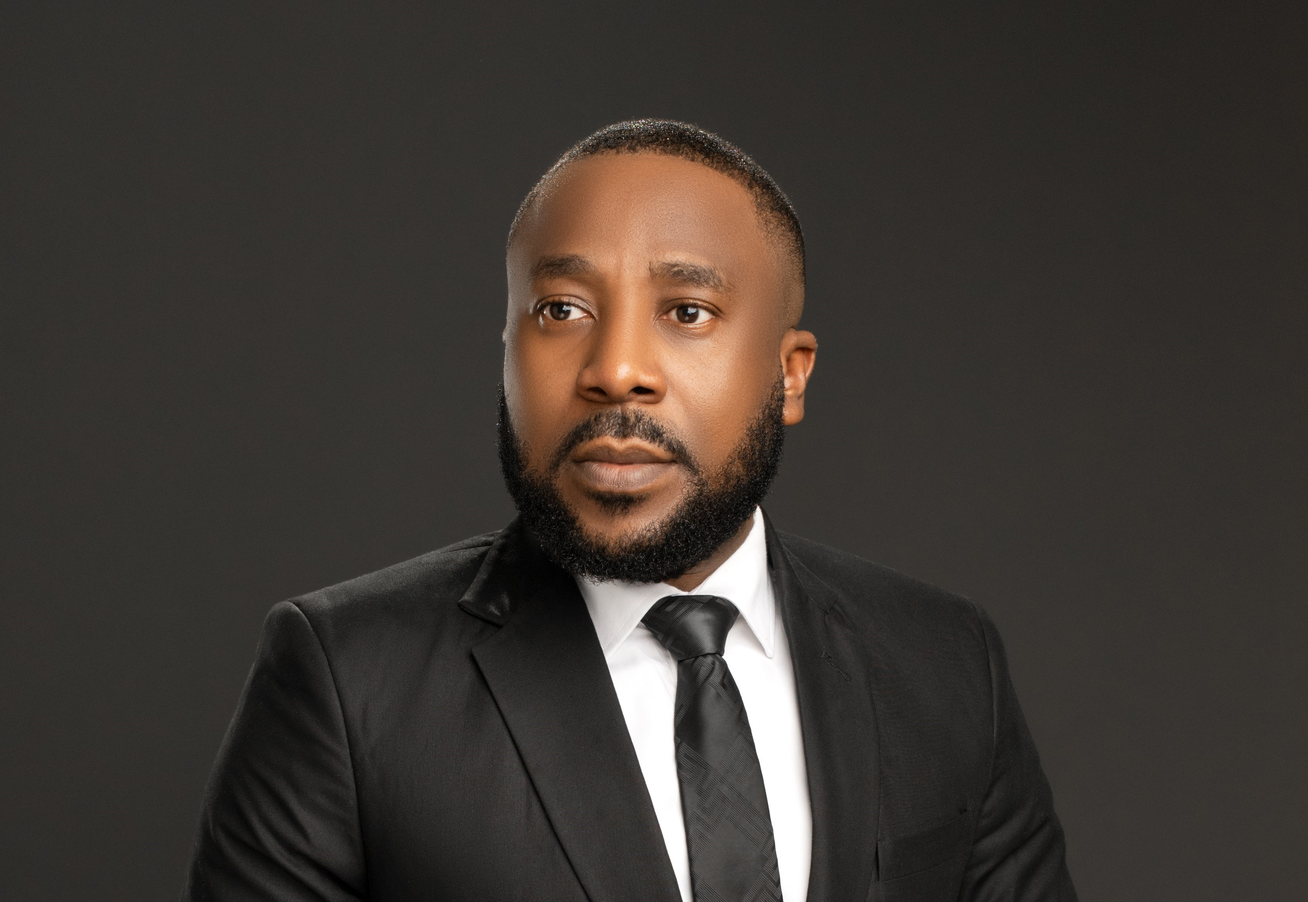
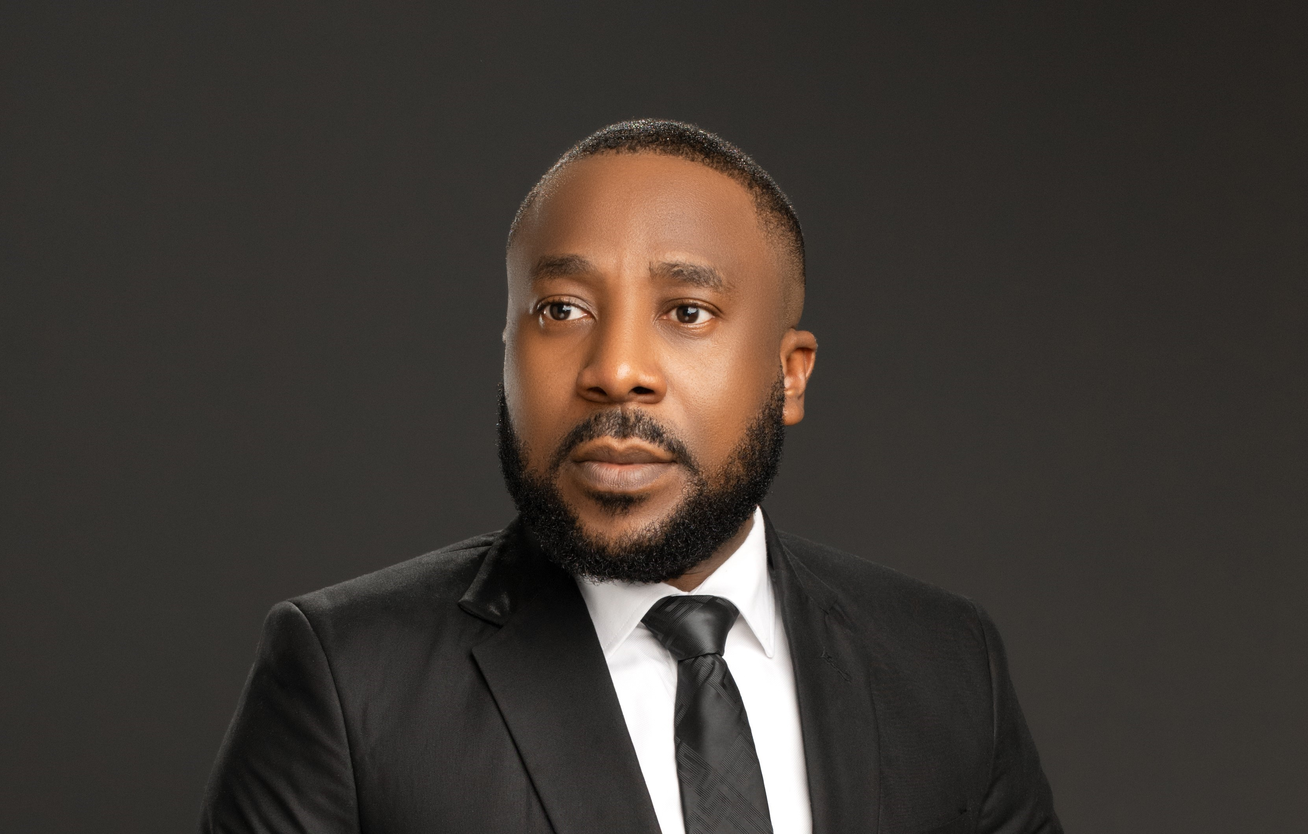
fix: fixed hero images and added relevant images

diff --git a/css/style.css b/css/style.css
@@ -292,7 +292,6 @@ nav a:hover::after {
 
 /* Hero Section */
 .hero {
-    /* height: 100vh; */
     height: auto;
     min-height: 100vh;
     display: flex;
@@ -301,13 +300,15 @@ nav a:hover::after {
     overflow: hidden;
     padding-top: 80px;
     background: linear-gradient(rgba(5, 8, 7, 0.4), rgba(5, 8, 7, 0.6)), url('../images/halfprofile.jpg') center/cover;
+    background-attachment: fixed;
 }
 
 .hero-content {
     max-width: 800px;
     position: relative;
     z-index: 2;
-    padding: 40px 0
+    padding: 40px 0;
+    margin-top: 15rem;
 }
 
 .hero-subtitle {
@@ -324,7 +325,6 @@ nav a:hover::after {
 
 .typewriter h1 {
     font-size: 4rem;
-    margin-top: 15rem;
     margin-bottom: 1rem;
     color: var(--white);
     min-height: 100px;
@@ -376,65 +376,63 @@ nav a:hover::after {
     font-size: 1em;
 }
 
-/* About CEO Section */
+/* About Section */
 .about-ceo {
     padding: 6rem 0;
     background: var(--dark-grey);
-    position: relative;
     overflow: hidden;
 }
 
 .about-container {
     display: flex;
     flex-direction: column;
-    align-items: flex-start;
+    align-items: center;
     gap: 2rem;
     opacity: 0;
     transform: translateY(50px);
     transition: all 0.8s ease;
-    max-width: 700px;
-    margin: 0 auto;
 }
 
-/* .ceo-header {
-    display: flex;
-    align-items: center;
-    gap: 1.5rem;
+.ceo-content h2 {
+    font-size: 2.8rem;
     margin-bottom: 1.5rem;
-} */
+    color: var(--brown-dark);
+    text-align: center;
+}
+
+.ceo-content h3 {
+    font-family: var(--font-subheading);
+    font-size: 1.2rem;
+    color: var(--emerald-light);
+    margin-bottom: 2rem;
+    font-weight: 400;
+    text-align: center;
+}
 
 .ceo-image {
-    width: 90px;
-    height: 90px;
-    border-radius: 50%;
+    position: relative;
+    border-radius: 5px;
     overflow: hidden;
-    box-shadow: 0 8px 24px rgba(0,0,0,0.3);
+    box-shadow: 0 20px 40px rgba(0,0,0,0.4);
+    width: 50px; /* Set a fixed width */
+    height: 50px;
     background: linear-gradient(45deg, var(--emerald-dark), var(--black));
-    flex-shrink: 0;
     display: flex;
     align-items: center;
     justify-content: center;
+    margin-right: 1rem;
+    float: left; /* Float the image to the left */
+
 }
 
 .ceo-image img {
     width: 100%;
     height: 100%;
     object-fit: cover;
-    display: block;
-}
-
-.ceo-header-content h2 {
-    font-size: 2.2rem;
-    margin-bottom: 0.3rem;
-    color: var(--brown-dark);
-}
-
-.ceo-header-content h3 {
-    font-family: var(--font-subheading);
-    font-size: 1.1rem;
-    color: var(--emerald-light);
-    font-weight: 400;
-    margin-bottom: 0;
+    display: flex;
+    align-items: center;
+    justify-content: center;
+    flex-wrap: wrap;
 }
 
 .ceo-content p {
@@ -442,52 +440,16 @@ nav a:hover::after {
     font-size: 1.1rem;
     line-height: 1.8;
     color: var(--brown-light);
+    text-align: justify;
 }
 
-/* Responsive adjustments */
-@media (max-width: 576px) {
-    .about-container {
-        padding: 0 1rem;
-    }
-    .ceo-header {
-        gap: 1rem;
-    }
-    .ceo-image {
-        width: 60px;
-        height: 60px;
-    }
-    .ceo-header-content h2 {
-        font-size: 1.3rem;
-    }
-    .ceo-header-content h3 {
-        font-size: 0.9rem;
-    }
-    .ceo-content p {
-        font-size: 0.95rem;
-    }
+.ceo-content a {
+    display: block;
+    margin-left: auto;
+    margin-right: auto;
+    max-width: 200px;
+    text-align: center;
 }
-
-/* .ceo-signature {
-    display: flex;
-    flex-direction: column;
-    margin-top: 2rem;
-    margin-bottom: 1rem;
-} */
-
-/* .signature {
-    font-family: var(--font-heading);
-    font-size: 2.5rem;
-    color: var(--brown-dark);
-    margin-bottom: 0.5rem;
-}
-
-.signature-title {
-    font-family: var(--font-subheading);
-    color: var(--emerald-light);
-    font-size: 0.9rem;
-    letter-spacing: 2px;
-    text-transform: uppercase;
-} */
 
 /* Experience Section */
 .experience {
@@ -1108,15 +1070,6 @@ footer {
     .typewriter h1 {
         font-size: 3rem;
     }
-    
-    .about-container {
-        grid-template-columns: 1fr;
-        gap: 3rem;
-    }
-    
-    .ceo-image {
-        height: 400px;
-    }
 
     nav ul {
         gap: 1rem;
@@ -1240,7 +1193,13 @@ footer {
 @media (max-width: 576px) {
     .hero {
         background: linear-gradient(rgba(5, 8, 7, 0.4), rgba(5, 8, 7, 0.6)), url('../images/fullprofile.jpg') center/cover;
+        background-attachment: fixed;
     }
+
+    .hero-content {
+        margin-top: 25rem;
+    }
+
     .typewriter h1 {
         font-size: 1.8rem;
     }
@@ -1253,9 +1212,6 @@ footer {
         font-size: 2.5rem;
     }
     
-    .ceo-image {
-        height: 300px;
-    }
     /* Mobile-specific adjustments */
     .logo-icon {
         width: 35px;
@@ -1283,10 +1239,6 @@ footer {
     
     .logo-main {
         font-size: 1.2rem;
-    }
-
-    .typewriter h1 {
-        margin-top: 30rem;
     }
 
     .logo-tagline {
@@ -1331,14 +1283,14 @@ footer {
 
 /* Page Hero Section (for About, Contact, etc. pages) */
 .page-hero {
-    height: 100vh;
-    min-height: 400px; /* Minimum height for smaller screens */
+    height: auto;
+    min-height: 100vh;
     display: flex;
     align-items: center;
     position: relative;
     overflow: hidden;
     padding-top: 80px; /* To account for fixed header */
-    background: linear-gradient(rgba(5, 8, 7, 0.4), rgba(5, 8, 7, 0.6)), url('../images/profile2.jpg') center/cover; /* Use a relevant background image */
+    background: linear-gradient(rgba(5, 8, 7, 0.4), rgba(5, 8, 7, 0.6)), url('../images/profile3.jpg') center/cover; /* Use a relevant background image */
     background-attachment: fixed; /* Optional: for parallax-like effect */
 }
 
@@ -1346,9 +1298,9 @@ footer {
     max-width: 800px;
     position: relative;
     z-index: 2;
-    text-align: center; /* Center content */
-    margin: 25rem auto 0; /* Center content block */
-    padding: 40px 0;
+    text-align: center;
+    margin: 25rem auto 0;
+    padding: 0;
     backdrop-filter: blur(8px);
     -webkit-backdrop-filter: blur(8px);
 }
@@ -1475,10 +1427,6 @@ footer {
 
 /* Responsive adjustments for about page hero */
 @media (max-width: 768px) {
-    .page-hero {
-        height: 100vh;
-        min-height: 300px;
-    }
     .page-hero-content h1 {
         font-size: 2.5rem;
     }
@@ -1501,8 +1449,12 @@ footer {
 }
 
 @media (max-width: 480px) {
+    .page-hero-content {
+        margin: 30rem auto 0;
+    }
     .page-hero-content h1 {
         font-size: 2rem;
+
     }
     .page-hero-content p.page-hero-subtitle {
         font-size: 0.9rem;

diff --git a/index.html b/index.html
@@ -116,23 +116,18 @@
         </div>
     </div>
 
-    <!-- About CEO Section -->
     <section class="about-ceo" id="ceo">
         <div class="container">
             <div class="about-container">
                 <div class="ceo-content">
+                    <h2>Meet Sulaiman Abu</h2>
+                    <h3>Real Estate Developer & Business Manager</h3>
                     <div class="ceo-image">
                         <img src="images/profile.jpg" alt="Suleiman Abu">
                     </div>
-                    <h2>Sulaiman Abu</h2>
-                    <h3>Real Estate Developer & Business Manager</h3>
-                    <p>With over 17 years of dynamic, hands-on experience that spans the full spectrum of the real estate value chain in Nigeria, I've built a reputation as a transformative figure in Nigeria's rapidly evolving property landscape.</p>
-                    <p>Born and raised in Somolu, Lagos, I hold a Higher National Diploma (HND) in Estate Management from Federal Polytechnic, Auchi, Edo State. My journey in real estate began from the ground up, acquiring practical knowledge through sheer dedication and perseverance.</p>
-                    <p>My robust skill set encompasses financial projections, design creation, project conceptualization, and strategic management that have consistently set me apart in the industry.</p>
-                    <!-- <div class="ceo-signature">
-                        <div class="signature">Sulaiman Abu</div>
-                        <div class="signature-title">Real Estate Developer</div>
-                    </div> -->
+                    <p>With over 17 years of dynamic, hands-on experience that spans the full spectrum of the real estate value chain in Nigeria, I've built a reputation as a transformative figure in Nigeria's rapidly evolving property landscape.
+                       Born and raised in Somolu, Lagos, I hold a Higher National Diploma (HND) in Estate Management from Federal Polytechnic, Auchi, Edo State. My journey in real estate began from the ground up, acquiring practical knowledge through sheer dedication and perseverance.
+                       My robust skill set encompasses financial projections, design creation, project conceptualization, and strategic management that have consistently set me apart in the industry.</p>
                     <a href="about.html" class="btn btn-light">Learn More</a>
                 </div>
             </div>
@@ -285,7 +280,7 @@
             <div class="projects-grid">
                 <div class="project-card">
                     <div class="project-image">
-                        <img src="https://images.unsplash.com/photo-1600585154340-be6161a56a0c?ixlib=rb-4.0.3&ixid=M3wxMjA3fDB8MHxwaG90by1wYWdlfHx8fGVufDB8fHx8fA%3D%3D&auto=format&fit=crop&w=2070&q=80" alt="Zirconia Heights">
+                        <img src="images/Zirconia.webp" alt="Zirconia Heights">
                     </div>
                     <div class="project-content">
                         <h3>Zirconia Heights</h3>
@@ -299,7 +294,7 @@
                 </div>
                 <div class="project-card">
                     <div class="project-image">
-                        <img src="https://images.unsplash.com/photo-1560448204-603b3fc33ddc?ixlib=rb-4.0.3&ixid=M3wxMjA3fDB8MHxwaG90by1wYWdlfHx8fGVufDB8fHx8fA%3D%3D&auto=format&fit=crop&w=2070&q=80" alt="The Nexus">
+                        <img src="images/The Nexus.jpg" alt="The Nexus">
                     </div>
                     <div class="project-content">
                         <h3>The Nexus</h3>
@@ -313,7 +308,7 @@
                 </div>
                 <div class="project-card">
                     <div class="project-image">
-                        <img src="https://images.unsplash.com/photo-1600596542815-ffad4c1539a9?ixlib=rb-4.0.3&ixid=M3wxMjA3fDB8MHxwaG90by1wYWdlfHx8fGVufDB8fHx8fA%3D%3D&auto=format&fit=crop&w=2075&q=80" alt="The Silhoutte">
+                        <img src="images/The Silhoutte.jpeg" alt="The Silhoutte">
                     </div>
                     <div class="project-content">
                         <h3>The Silhoutte</h3>
@@ -441,8 +436,8 @@
                 <div class="footer-col footer-contact" id="contact">
                     <h3>Contact Me</h3>
                     <p><i class="fas fa-map-marker-alt"></i> Lagos, Nigeria</p>
-                    <p><i class="fas fa-phone"></i> +234 802 239 6938</p>
-                    <p><i class="fas fa-envelope"></i> contact@sulaimanabu.com</p>
+                    <p><i class="fas fa-phone"></i> +2348022396938</p>
+                    <p><i class="fas fa-envelope"></i> talk@sulaimanabu.com</p>
                     <p><i class="fas fa-clock"></i> Mon-Fri: 9:00 AM - 5:00 PM</p>
                 </div>
             </div>
